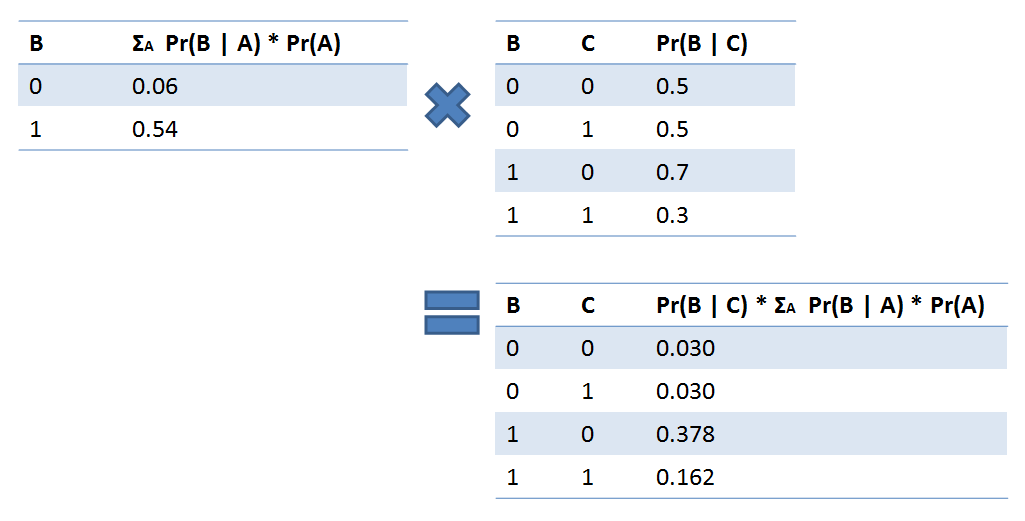
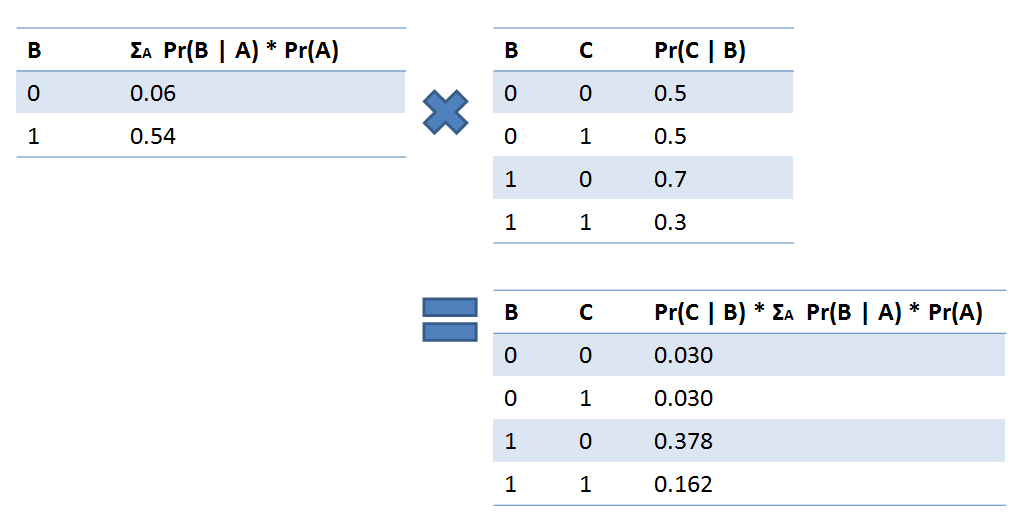
- Fixes to CS 161 Week 8

Changed region(s): [[0.0, 0.0307, 0.7805, 0.4607], [0.4059, 0.5221, 0.999, 0.9827]]

diff --git a/classes/spring-2014/cs-161/week-8.html b/classes/spring-2014/cs-161/week-8.html
@@ -1169,7 +1169,7 @@
               <br/>
               <p>The idea of variable elimination is that, with some query and evidence variables, we want to find Pr(Q | e).</p>
               <p>For example, we might be interested in Pr(Cancer | Smoking = true)</p>
-              <p>Above, Q = {Smoking} and e = {Smoking = true}</p>
+              <p>Above, Q = {Cancer} and e = {Smoking = true}</p>
               <p>Let's use this as our example! (example credit to Dr. Darwiche, and my notebook for surviving this long to be useful)</p>
               <div class='fit-pres text-center'>
                 <img src='../../../assets/images/spring-2014/cs-161/week-8/bayesnet-7.PNG' />
@@ -1214,12 +1214,12 @@
               <p>So close! But let's look at what we have so far:</p>
 <pre class='prettyprint'>
   ; The term currently in our table:
-  &Sigma;_B Pr(B | C) * &Sigma;_A Pr(B | A) * Pr(A)
+  &Sigma;_B Pr(C | B) * &Sigma;_A Pr(B | A) * Pr(A)
   
   ; ...is really just the joint with B and A summed out!
   ; (after accounting for evidence A = true, of course)
   
-  = &Sigma;_B &Sigma;_A Pr(B | C) * Pr(B | A) * Pr(A)
+  = &Sigma;_B &Sigma;_A Pr(C | B) * Pr(B | A) * Pr(A)
   = &Sigma;_B &Sigma;_A Pr(A, B, C)
 </pre>
               <br/>
